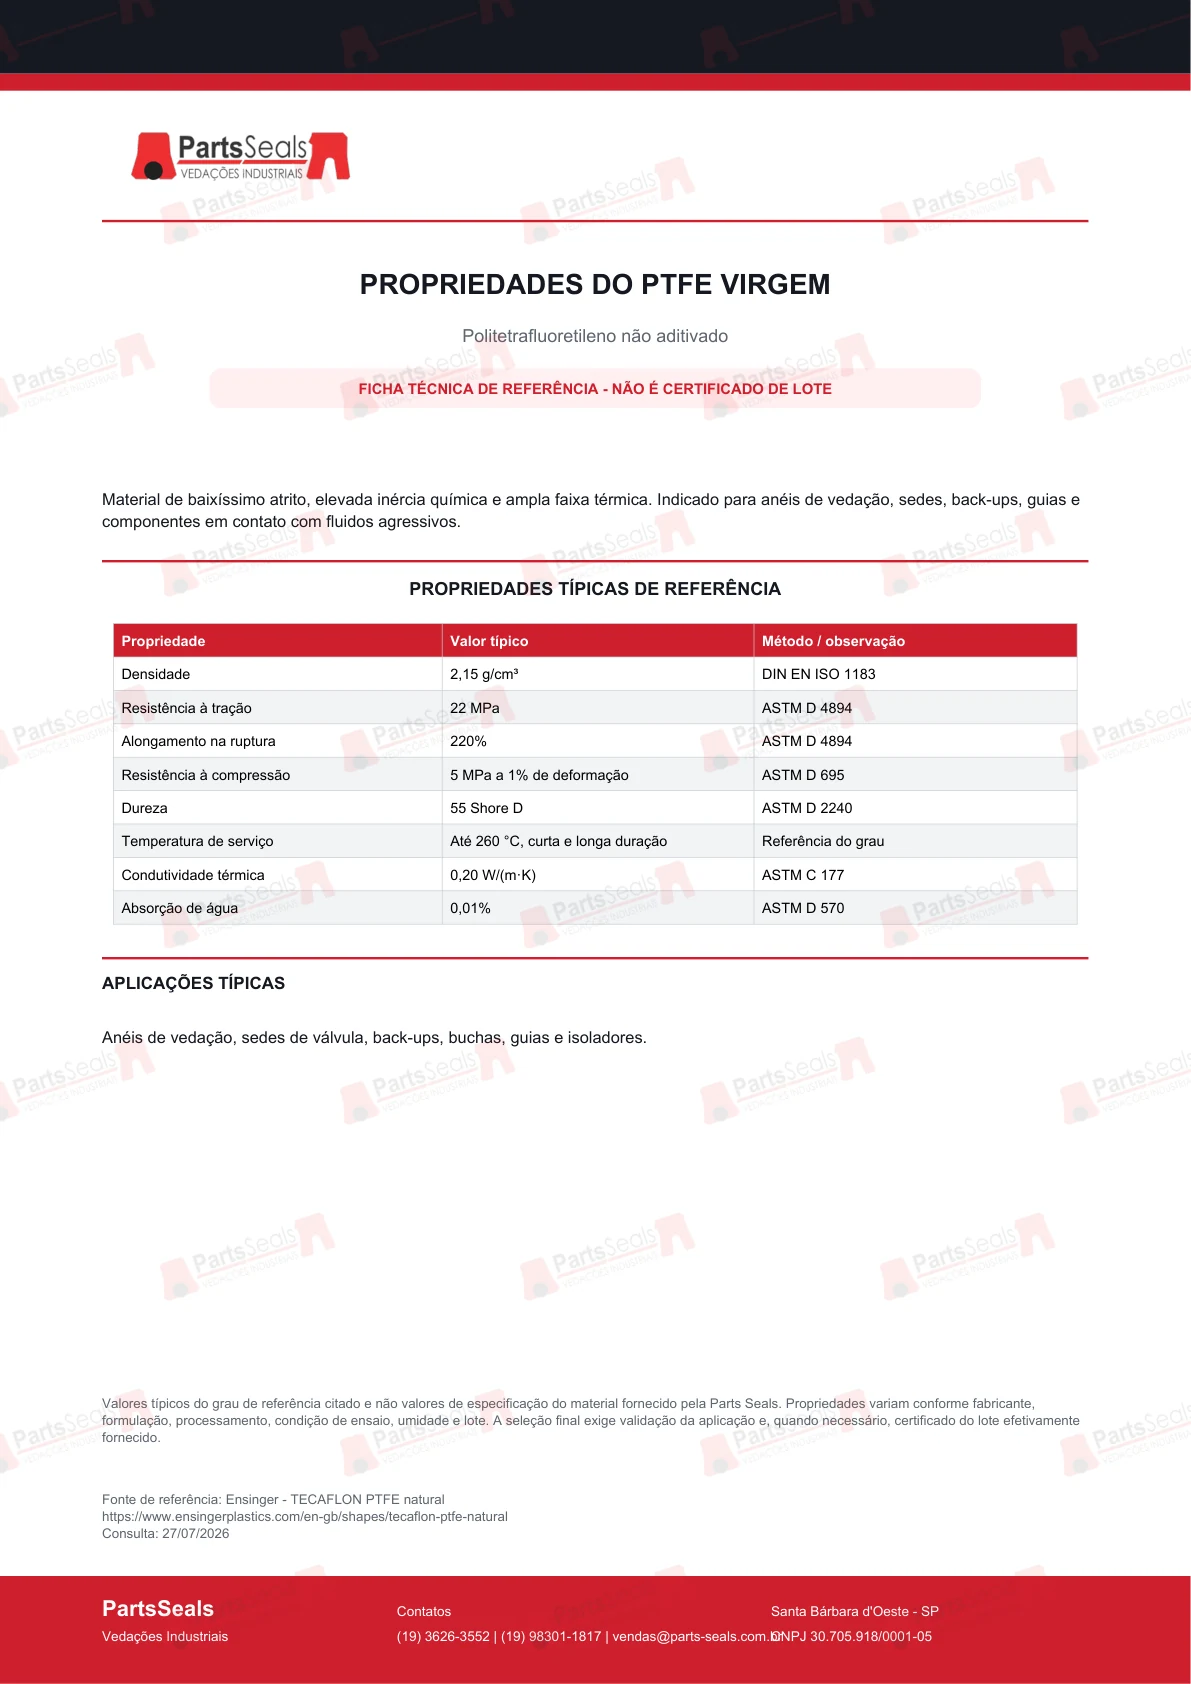
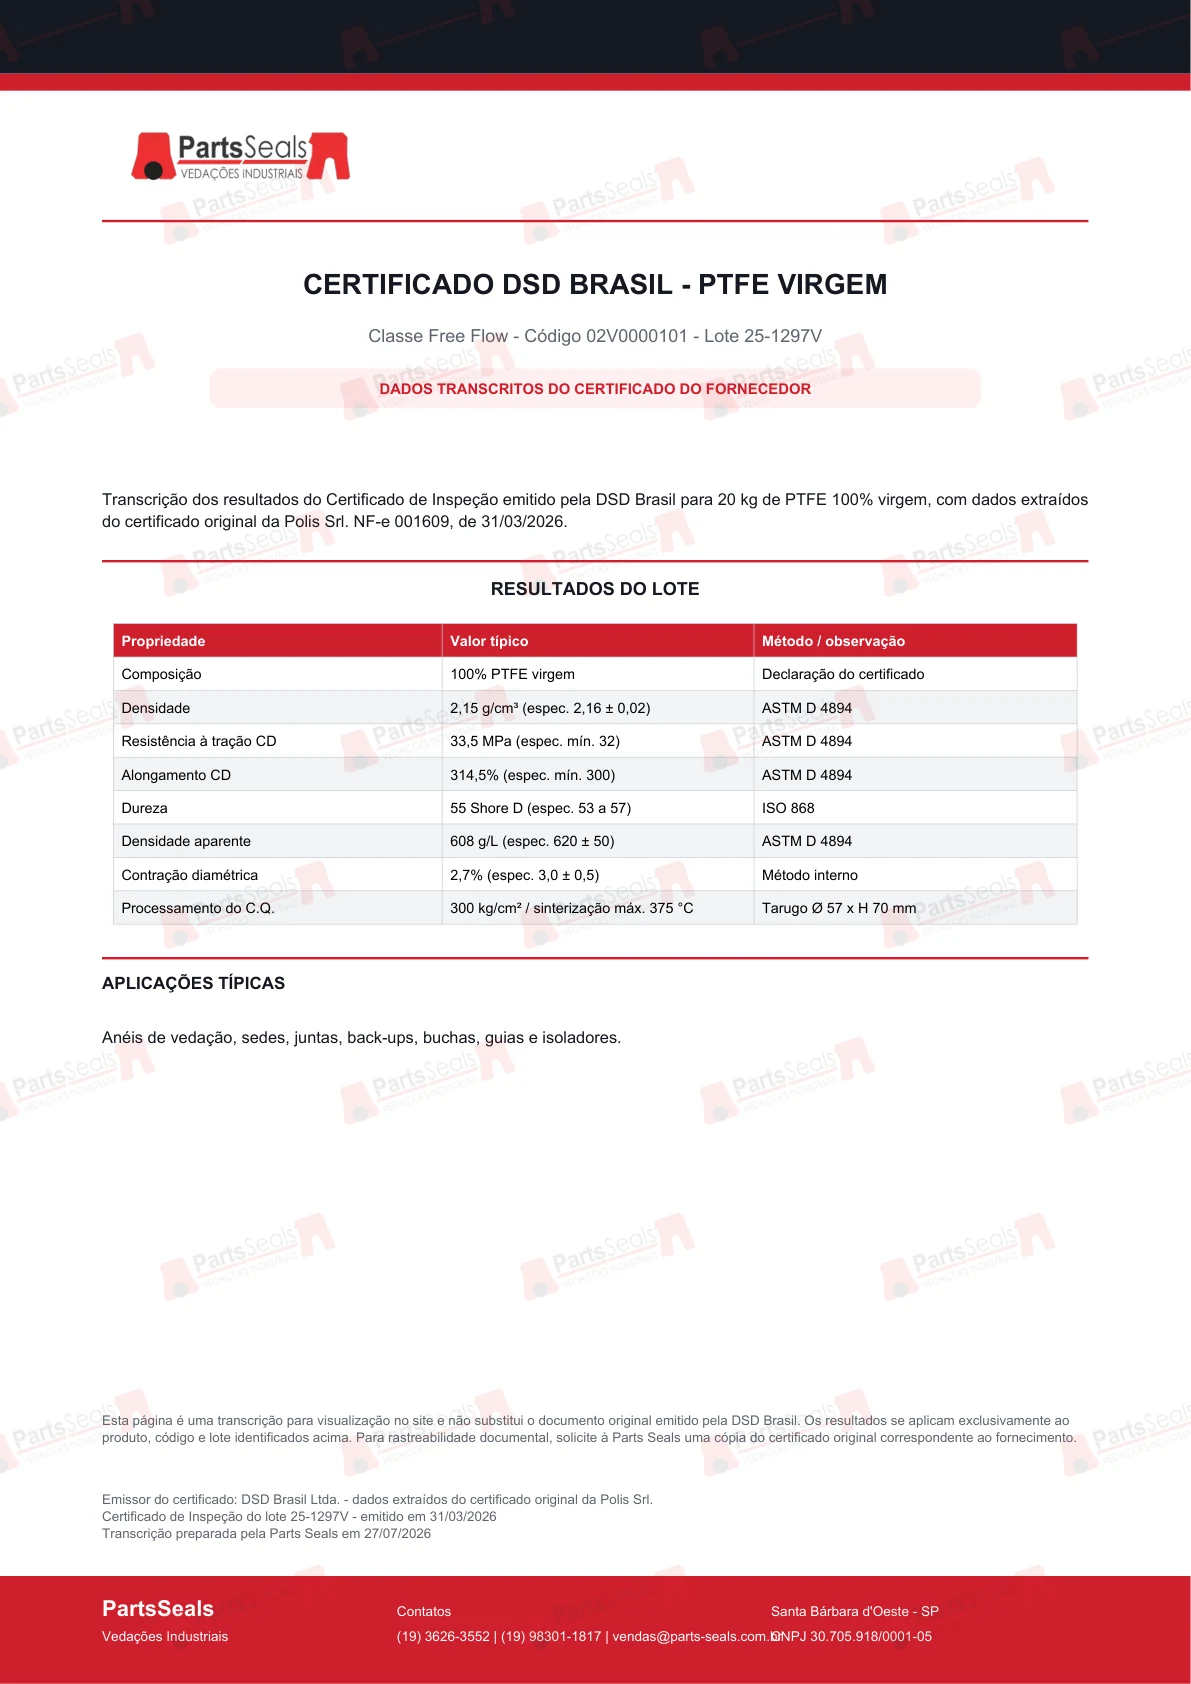
Atualiza PTFE puro com certificado DSD Brasil

diff --git a/materiais.html b/materiais.html
@@ -114,14 +114,14 @@
         </div>
         <div class="material-library-grid">
           <article class="material-library-card">
-            <header class="material-library-card__header"><span class="material-library-card__code">PTFE</span><div><h3>PTFE virgem</h3><span class="material-library-card__family">Baixo atrito e inércia química</span></div></header>
-            <p>Material autolubrificante e quimicamente inerte para uma ampla faixa de fluidos, indicado quando baixo atrito e compatibilidade têm prioridade.</p>
+            <header class="material-library-card__header"><span class="material-library-card__code">PTFE</span><div><h3>PTFE virgem</h3><span class="material-library-card__family">DSD Brasil · 100% PTFE virgem</span></div></header>
+            <p>Material real do lote 25-1297V, classe Free Flow, fornecido pela DSD Brasil com dados provenientes do certificado original da Polis Srl.</p>
             <dl class="material-spec-list">
               <div><dt>Indicado para</dt><dd>Indústria química, alimentícia, farmacêutica, baixa fricção e isolação.</dd></div>
               <div><dt>Perfis e peças</dt><dd>Anéis de vedação, sedes, juntas, mancais, guias e componentes usinados.</dd></div>
               <div><dt>Atenções</dt><dd>Fluência e desgaste podem exigir energizador, geometria ou composto específico.</dd></div>
             </dl>
-            <div class="material-library-card__actions"><button type="button" class="datasheet-open datasheet-open--reference" data-datasheet-open data-sheet-title="PTFE virgem — ficha técnica de referência" data-sheet-images="assets/datasheets-view/ptfe-virgem-p1.webp">Ficha de referência</button></div>
+            <div class="material-library-card__actions"><button type="button" class="datasheet-open" data-datasheet-open data-sheet-title="PTFE virgem — certificado DSD Brasil do lote 25-1297V" data-sheet-images="assets/datasheets-view/ptfe-virgem-p1.webp">Certificado DSD Brasil</button></div>
           </article>
 
           <article class="material-library-card">

diff --git a/es.html b/es.html
@@ -380,8 +380,8 @@
           <strong>18</strong>
           <span>documentos técnicos protegidos</span>
           <ul>
-            <li>9 documentos suministrados por la empresa</li>
-            <li>9 fichas de referencia claramente identificadas</li>
+            <li>10 documentos suministrados por la empresa</li>
+            <li>8 fichas de referencia claramente identificadas</li>
             <li>Aplicaciones y ejemplos de perfiles para 17 materiales</li>
           </ul>
         </aside>

diff --git a/index.html b/index.html
@@ -380,8 +380,8 @@
           <strong>18</strong>
           <span>documentos técnicos protegidos</span>
           <ul>
-            <li>9 documentos fornecidos pela empresa</li>
-            <li>9 fichas técnicas de referência</li>
+            <li>10 documentos fornecidos pela empresa</li>
+            <li>8 fichas técnicas de referência</li>
             <li>Aplicações e exemplos de perfis para 17 materiais</li>
           </ul>
         </aside>

diff --git a/en.html b/en.html
@@ -380,8 +380,8 @@
           <strong>18</strong>
           <span>protected technical documents</span>
           <ul>
-            <li>9 documents supplied by the company</li>
-            <li>9 clearly labeled reference sheets</li>
+            <li>10 documents supplied by the company</li>
+            <li>8 clearly labeled reference sheets</li>
             <li>Applications and profile examples for 17 materials</li>
           </ul>
         </aside>

diff --git a/tools/build_datasheets.py b/tools/build_datasheets.py
@@ -104,29 +104,32 @@ REFERENCE_SHEETS = [
         "source": "Fluoromasters Ind. Com. Imp. e Exp. Ltda. / Uniflon",
         "source_url": "Certificado de Análise 25110276016 - emitido em 13/11/2025",
         "document_kind": "supplier_certificate",
+        "issuer_short": "Fluoromasters / Uniflon",
     },
     {
-        "filename": "Ficha Técnica de Referência - PTFE Virgem - Parts Seals 2026.pdf",
-        "title": "PROPRIEDADES DO PTFE VIRGEM",
-        "subtitle": "Politetrafluoretileno não aditivado",
+        "filename": "Certificado DSD Brasil - PTFE Virgem - Lote 25-1297V.pdf",
+        "title": "CERTIFICADO DSD BRASIL - PTFE VIRGEM",
+        "subtitle": "Classe Free Flow - Código 02V0000101 - Lote 25-1297V",
         "description": (
-            "Material de baixíssimo atrito, elevada inércia química e ampla faixa térmica. "
-            "Indicado para anéis de vedação, sedes, back-ups, guias e componentes em contato "
-            "com fluidos agressivos."
+            "Transcrição dos resultados do Certificado de Inspeção emitido pela DSD Brasil "
+            "para 20 kg de PTFE 100% virgem, com dados extraídos do certificado original "
+            "da Polis Srl. NF-e 001609, de 31/03/2026."
         ),
         "properties": [
-            ("Densidade", "2,15 g/cm³", "DIN EN ISO 1183"),
-            ("Resistência à tração", "22 MPa", "ASTM D 4894"),
-            ("Alongamento na ruptura", "220%", "ASTM D 4894"),
-            ("Resistência à compressão", "5 MPa a 1% de deformação", "ASTM D 695"),
-            ("Dureza", "55 Shore D", "ASTM D 2240"),
-            ("Temperatura de serviço", "Até 260 °C, curta e longa duração", "Referência do grau"),
-            ("Condutividade térmica", "0,20 W/(m·K)", "ASTM C 177"),
-            ("Absorção de água", "0,01%", "ASTM D 570"),
+            ("Composição", "100% PTFE virgem", "Declaração do certificado"),
+            ("Densidade", "2,15 g/cm³ (espec. 2,16 ± 0,02)", "ASTM D 4894"),
+            ("Resistência à tração CD", "33,5 MPa (espec. mín. 32)", "ASTM D 4894"),
+            ("Alongamento CD", "314,5% (espec. mín. 300)", "ASTM D 4894"),
+            ("Dureza", "55 Shore D (espec. 53 a 57)", "ISO 868"),
+            ("Densidade aparente", "608 g/L (espec. 620 ± 50)", "ASTM D 4894"),
+            ("Contração diamétrica", "2,7% (espec. 3,0 ± 0,5)", "Método interno"),
+            ("Processamento do C.Q.", "300 kg/cm² / sinterização máx. 375 °C", "Tarugo Ø 57 x H 70 mm"),
         ],
-        "applications": "Anéis de vedação, sedes de válvula, back-ups, buchas, guias e isoladores.",
-        "source": "Ensinger - TECAFLON PTFE natural",
-        "source_url": "https://www.ensingerplastics.com/en-gb/shapes/tecaflon-ptfe-natural",
+        "applications": "Anéis de vedação, sedes, juntas, back-ups, buchas, guias e isoladores.",
+        "source": "DSD Brasil Ltda. - dados extraídos do certificado original da Polis Srl.",
+        "source_url": "Certificado de Inspeção do lote 25-1297V - emitido em 31/03/2026",
+        "document_kind": "supplier_certificate",
+        "issuer_short": "DSD Brasil",
     },
     {
         "filename": "Ficha Técnica de Referência - PTFE Grafite - Parts Seals 2026.pdf",
@@ -331,7 +334,12 @@ DOC_SPECS = [
     ("polioximetileno", "pom-certificado", "POM / Polioximetileno", "Certificado de inspeção"),
     ("poliuretano", "poliuretano", "Poliuretano", "Certificado de inspeção"),
     ("technyl", "technyl", "Technyl PA6 / PA66", "Certificado de qualidade"),
-    ("ptfe virgem", "ptfe-virgem", "PTFE virgem", "Ficha técnica de referência"),
+    (
+        "25-1297v",
+        "ptfe-virgem",
+        "PTFE virgem - lote DSD Brasil 25-1297V",
+        "Certificado de inspeção DSD Brasil",
+    ),
     ("ptfe grafite", "ptfe-grafite", "PTFE com grafite", "Ficha técnica de referência"),
     ("ptfe t46", "ptfe-t46", "PTFE T-46", "Ficha técnica de referência"),
     ("ptfe molibdenio", "ptfe-molibdenio", "PTFE com molibdênio", "Ficha técnica de referência"),
@@ -465,7 +473,8 @@ def create_reference_sheet(spec: dict, output_path: Path) -> None:
 
     note_text = (
         "Esta página é uma transcrição para visualização no site e não substitui o documento "
-        "original emitido pela Fluoromasters / Uniflon. Os resultados se aplicam exclusivamente "
+        f"original emitido pela {spec.get('issuer_short', 'fornecedor')}. "
+        "Os resultados se aplicam exclusivamente "
         "ao produto, código e lote identificados acima. Para rastreabilidade documental, solicite "
         "à Parts Seals uma cópia do certificado original correspondente ao fornecimento."
         if is_supplier_certificate
